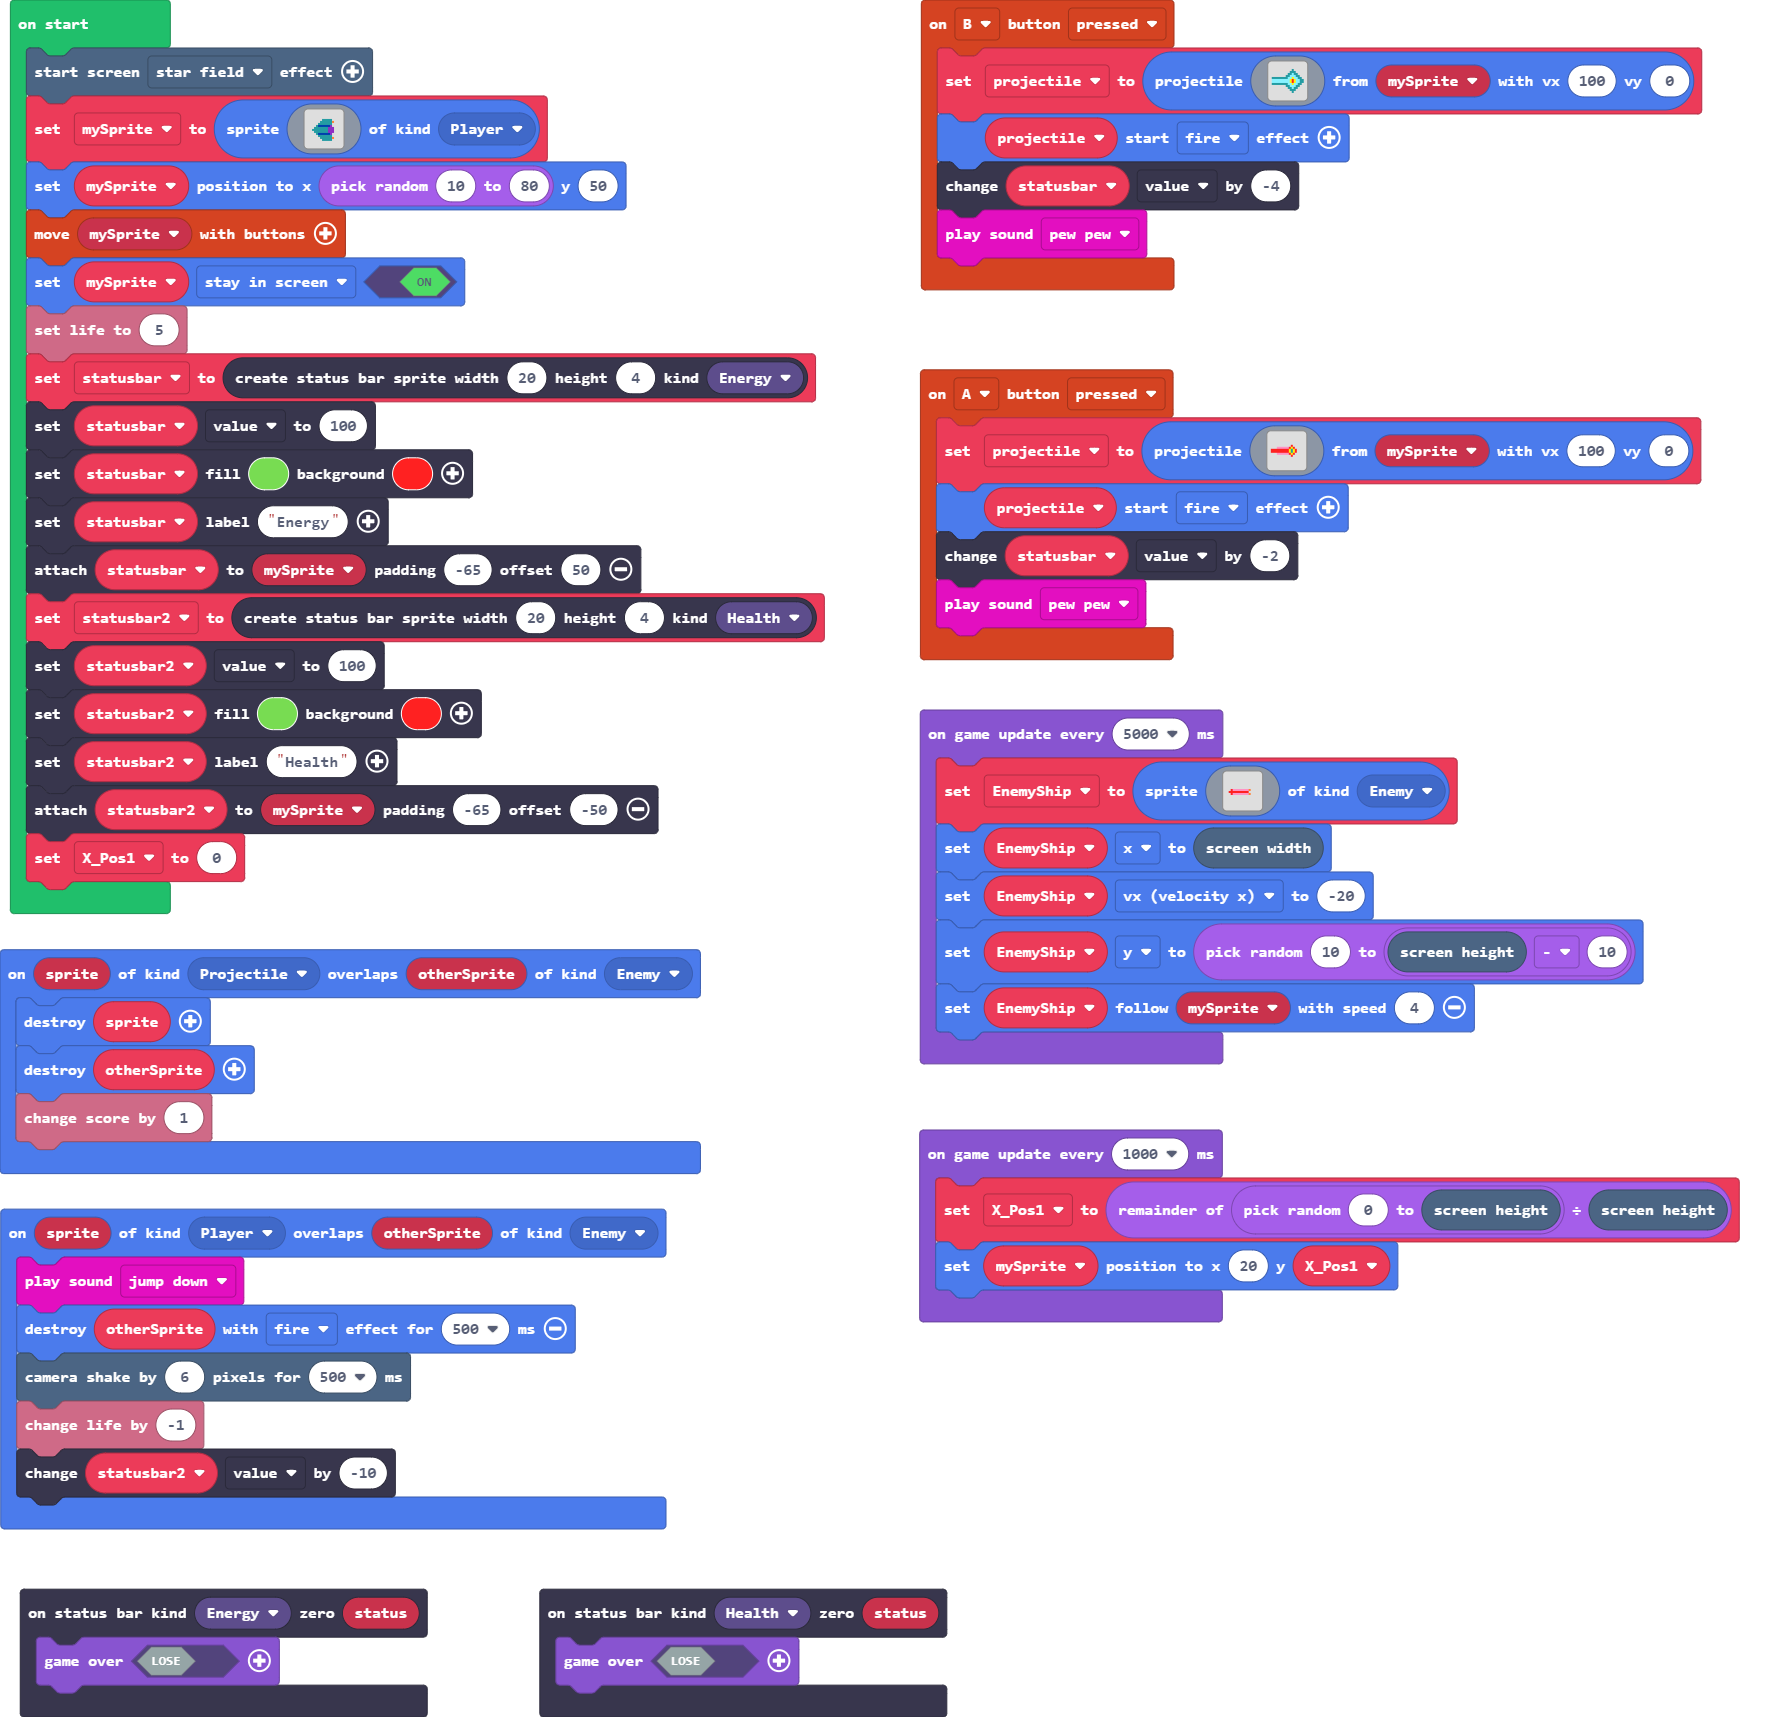
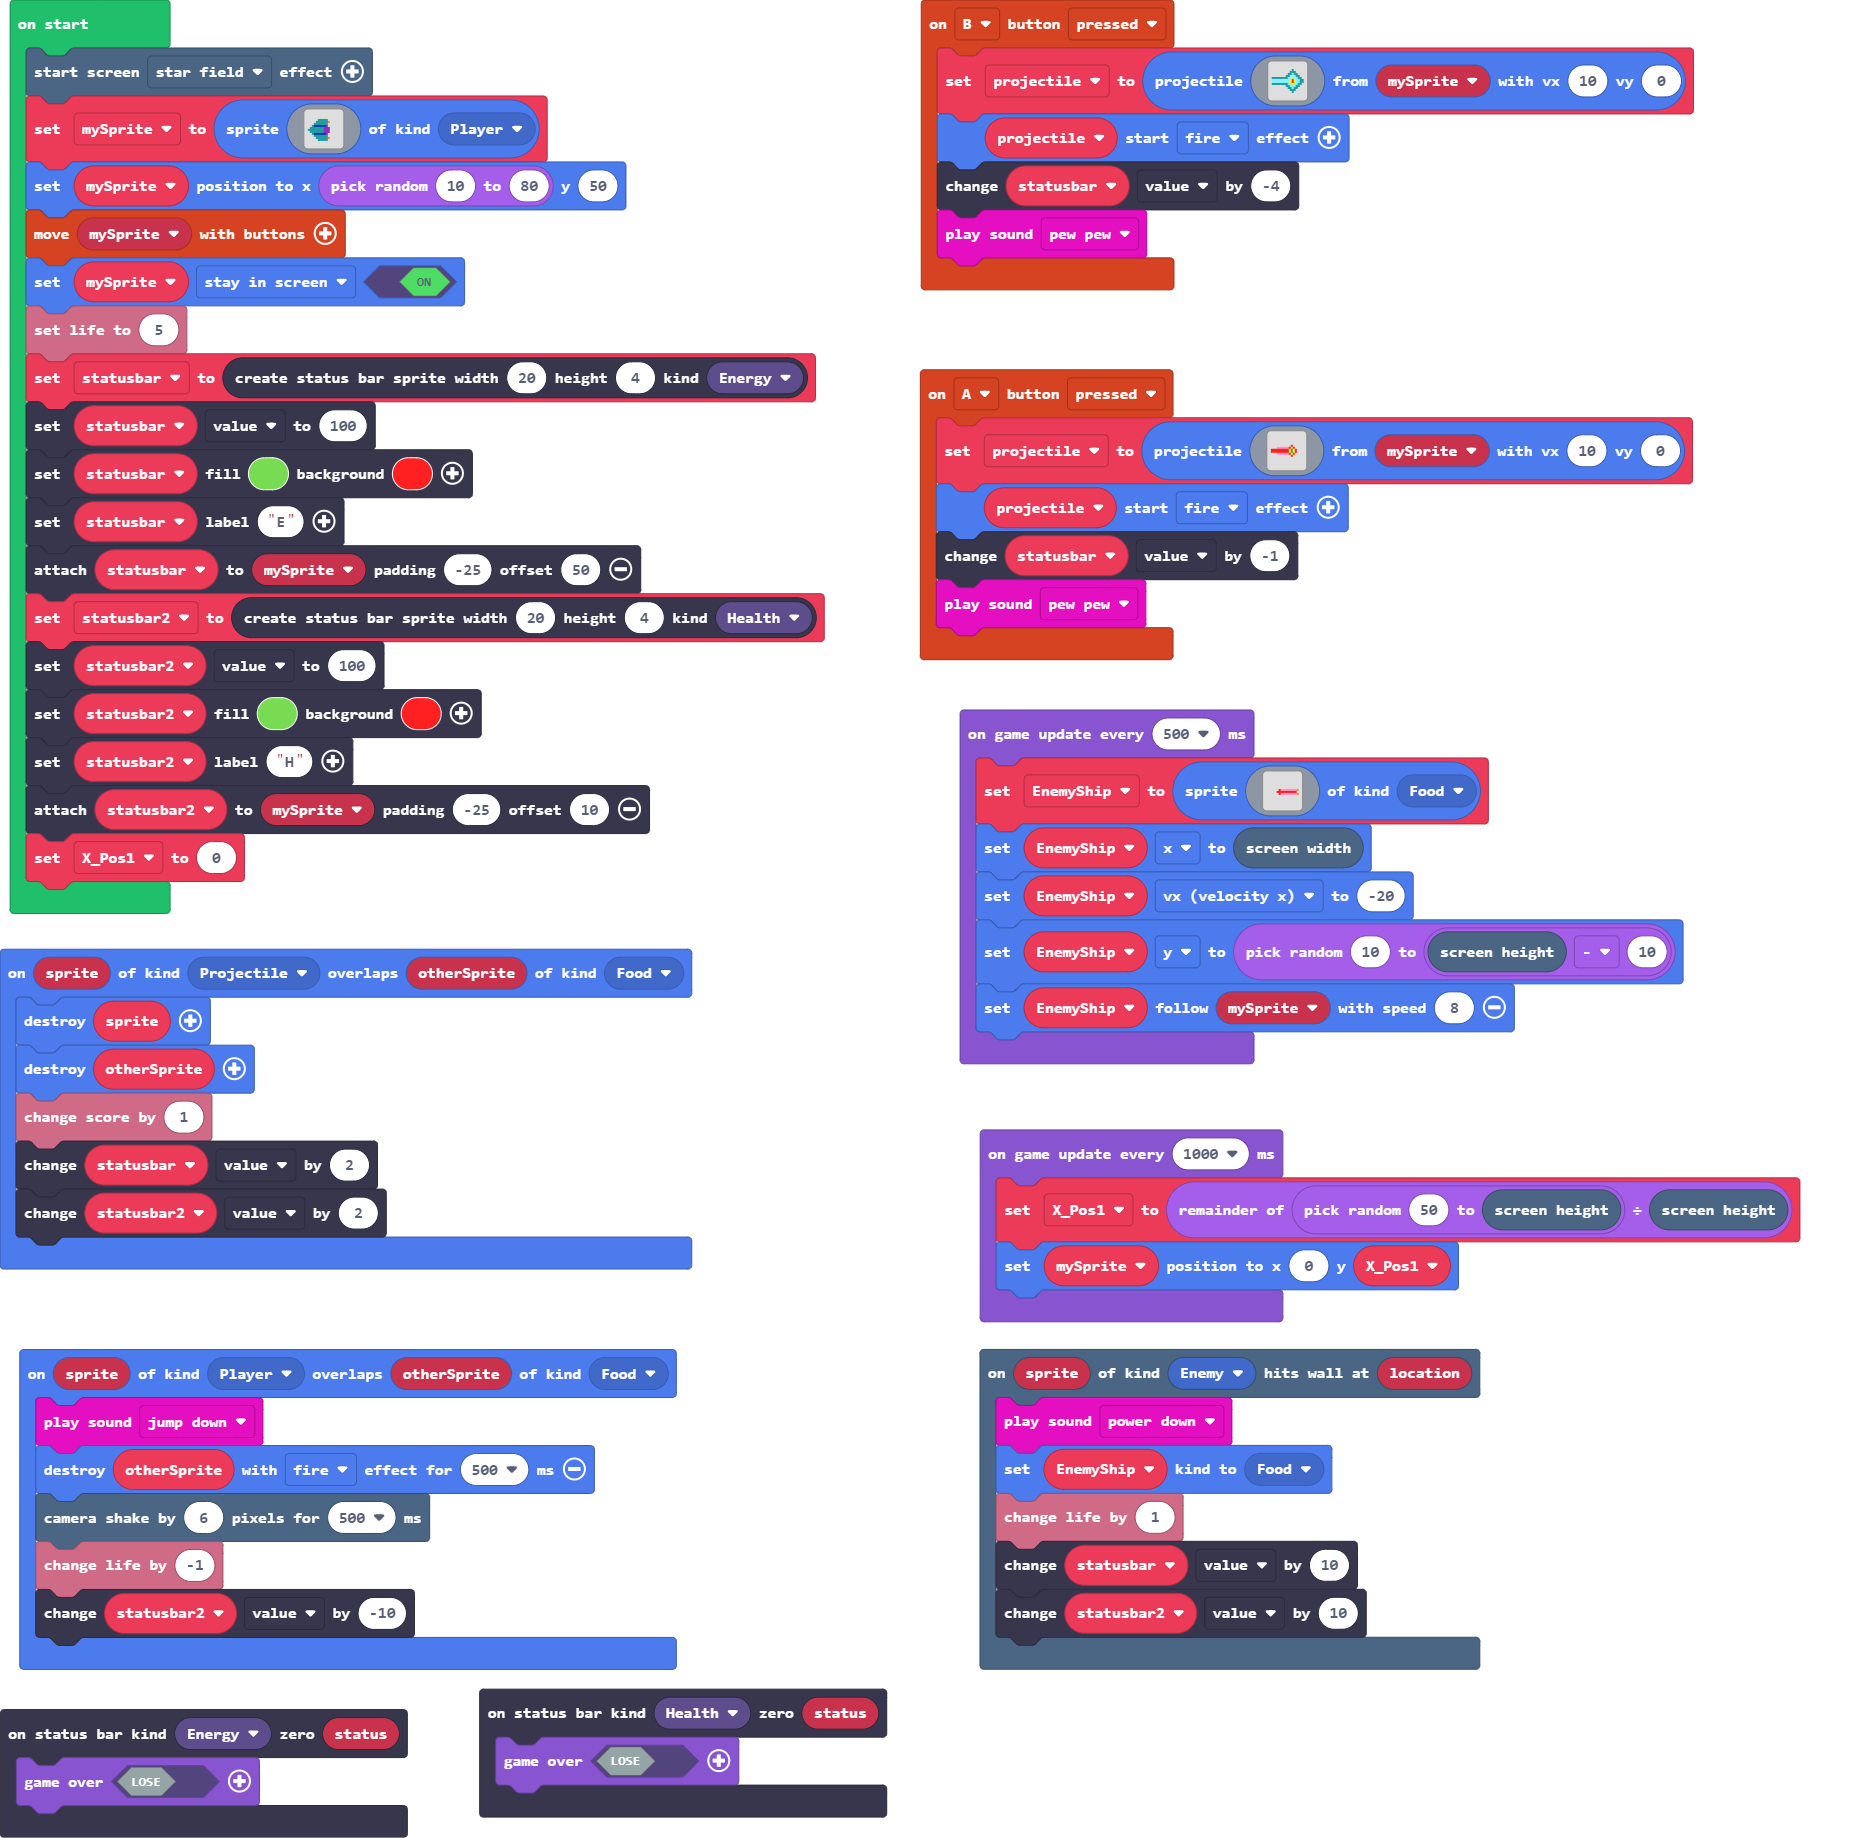
Update main.blocks, main.ts

diff --git a/main.ts b/main.ts
@@ -1,3 +1,10 @@
+sprites.onOverlap(SpriteKind.Projectile, SpriteKind.Food, function (sprite, otherSprite) {
+    sprite.destroy()
+    otherSprite.destroy()
+    info.changeScoreBy(1)
+    statusbar.value += 2
+    statusbar2.value += 2
+})
 controller.B.onEvent(ControllerButtonEvent.Pressed, function () {
     projectile = sprites.createProjectileFromSprite(img`
         . . . . . . . . . . . . . . . . 
@@ -16,7 +23,7 @@ controller.B.onEvent(ControllerButtonEvent.Pressed, function () {
         . . . . . . . . . . 6 . . . . . 
         . . . . . . . . . . . . . . . . 
         . . . . . . . . . . . . . . . . 
-        `, mySprite, 100, 0)
+        `, mySprite, 10, 0)
     projectile.startEffect(effects.fire)
     statusbar.value += -4
     music.pewPew.play()
@@ -39,28 +46,30 @@ controller.A.onEvent(ControllerButtonEvent.Pressed, function () {
         . . . . . . . . . . . . . . . . 
         . . . . . . . . . . . . . . . . 
         . . . . . . . . . . . . . . . . 
-        `, mySprite, 100, 0)
+        `, mySprite, 10, 0)
     projectile.startEffect(effects.fire)
-    statusbar.value += -2
+    statusbar.value += -1
     music.pewPew.play()
 })
 statusbars.onZero(StatusBarKind.Health, function (status) {
     game.over(false)
 })
-statusbars.onZero(StatusBarKind.Energy, function (status) {
-    game.over(false)
+scene.onHitWall(SpriteKind.Enemy, function (sprite, location) {
+    music.powerDown.play()
+    EnemyShip.setKind(SpriteKind.Food)
+    info.changeLifeBy(1)
+    statusbar.value += 10
+    statusbar2.value += 10
 })
-sprites.onOverlap(SpriteKind.Projectile, SpriteKind.Enemy, function (sprite, otherSprite) {
-    sprite.destroy()
-    otherSprite.destroy()
-    info.changeScoreBy(1)
-})
-sprites.onOverlap(SpriteKind.Player, SpriteKind.Enemy, function (sprite, otherSprite) {
+sprites.onOverlap(SpriteKind.Player, SpriteKind.Food, function (sprite, otherSprite) {
     music.jumpDown.play()
     otherSprite.destroy(effects.fire, 500)
     scene.cameraShake(6, 500)
     info.changeLifeBy(-1)
     statusbar2.value += -10
+})
+statusbars.onZero(StatusBarKind.Energy, function (status) {
+    game.over(false)
 })
 let EnemyShip: Sprite = null
 let projectile: Sprite = null
@@ -72,17 +81,17 @@ mySprite = sprites.create(img`
     . . . . . . . . . . . . . . . . 
     . . . . . . . . . . . . . . . . 
     . . . . . . . . . . . . . . . . 
-    . . . . . . . 6 6 6 6 6 . . . . 
-    . . . . . . 6 6 6 6 6 6 4 . . . 
-    . . . . . 6 6 6 6 6 6 6 . . . . 
-    . . . . 6 8 8 8 8 8 8 a . . . . 
-    . . . 6 6 6 6 6 6 6 a a a . . . 
-    . . 6 6 6 6 6 6 6 6 a a a . . . 
-    . . . 6 6 6 6 6 6 6 a a a . . . 
-    . . . . 6 8 8 8 8 8 8 a . . . . 
-    . . . . . 6 6 6 6 6 6 6 . . . . 
-    . . . . . . 6 6 6 6 6 6 4 . . . 
-    . . . . . . . 6 6 6 6 6 . . . . 
+    . . . . . 6 6 6 6 6 . . . . . . 
+    . . . . 6 6 6 6 6 6 4 . . . . . 
+    . . . 6 6 6 6 6 6 6 . . . . . . 
+    . . 6 8 8 8 8 8 8 a . . . . . . 
+    . 6 6 6 6 6 6 6 a a a . . . . . 
+    6 6 6 6 6 6 6 6 a a a . . . . . 
+    . 6 6 6 6 6 6 6 a a a . . . . . 
+    . . 6 8 8 8 8 8 8 a . . . . . . 
+    . . . 6 6 6 6 6 6 6 . . . . . . 
+    . . . . 6 6 6 6 6 6 4 . . . . . 
+    . . . . . 6 6 6 6 6 . . . . . . 
     . . . . . . . . . . . . . . . . 
     . . . . . . . . . . . . . . . . 
     `, SpriteKind.Player)
@@ -93,15 +102,19 @@ info.setLife(5)
 statusbar = statusbars.create(20, 4, StatusBarKind.Energy)
 statusbar.value = 100
 statusbar.setColor(7, 2)
-statusbar.setLabel("Energy")
-statusbar.attachToSprite(mySprite, -65, 50)
+statusbar.setLabel("E")
+statusbar.attachToSprite(mySprite, -25, 50)
 statusbar2 = statusbars.create(20, 4, StatusBarKind.Health)
 statusbar2.value = 100
 statusbar2.setColor(7, 2)
-statusbar2.setLabel("Health")
-statusbar2.attachToSprite(mySprite, -65, -50)
+statusbar2.setLabel("H")
+statusbar2.attachToSprite(mySprite, -25, 10)
 let X_Pos1 = 0
-game.onUpdateInterval(5000, function () {
+game.onUpdateInterval(1000, function () {
+    X_Pos1 = randint(50, scene.screenHeight()) % scene.screenHeight()
+    mySprite.setPosition(0, X_Pos1)
+})
+game.onUpdateInterval(500, function () {
     EnemyShip = sprites.create(img`
         . . . . . . . . . . . . . . . . 
         . . . . . . . . . . . . . . . . 
@@ -110,22 +123,18 @@ game.onUpdateInterval(5000, function () {
         . . . . . . . . . . . . . . . . 
         . . . . . . . . . . . . . . . . 
         . . . . . . . . . . . . . . . . 
-        . . 2 3 3 3 3 3 3 3 3 4 . . . . 
-        . 2 2 2 2 2 2 2 2 2 2 . . . . . 
-        . . 2 3 3 3 3 3 3 3 3 4 . . . . 
+        . . . . . . 2 3 3 3 3 3 3 3 3 4 
+        . . . . . 2 2 2 2 2 2 2 2 2 2 . 
+        . . . . . . 2 3 3 3 3 3 3 3 3 4 
         . . . . . . . . . . . . . . . . 
         . . . . . . . . . . . . . . . . 
         . . . . . . . . . . . . . . . . 
         . . . . . . . . . . . . . . . . 
         . . . . . . . . . . . . . . . . 
         . . . . . . . . . . . . . . . . 
-        `, SpriteKind.Enemy)
+        `, SpriteKind.Food)
     EnemyShip.x = scene.screenWidth()
     EnemyShip.vx = -20
     EnemyShip.y = randint(10, scene.screenHeight() - 10)
-    EnemyShip.follow(mySprite, 4)
-})
-game.onUpdateInterval(1000, function () {
-    X_Pos1 = randint(0, scene.screenHeight()) % scene.screenHeight()
-    mySprite.setPosition(20, X_Pos1)
+    EnemyShip.follow(mySprite, 8)
 })
